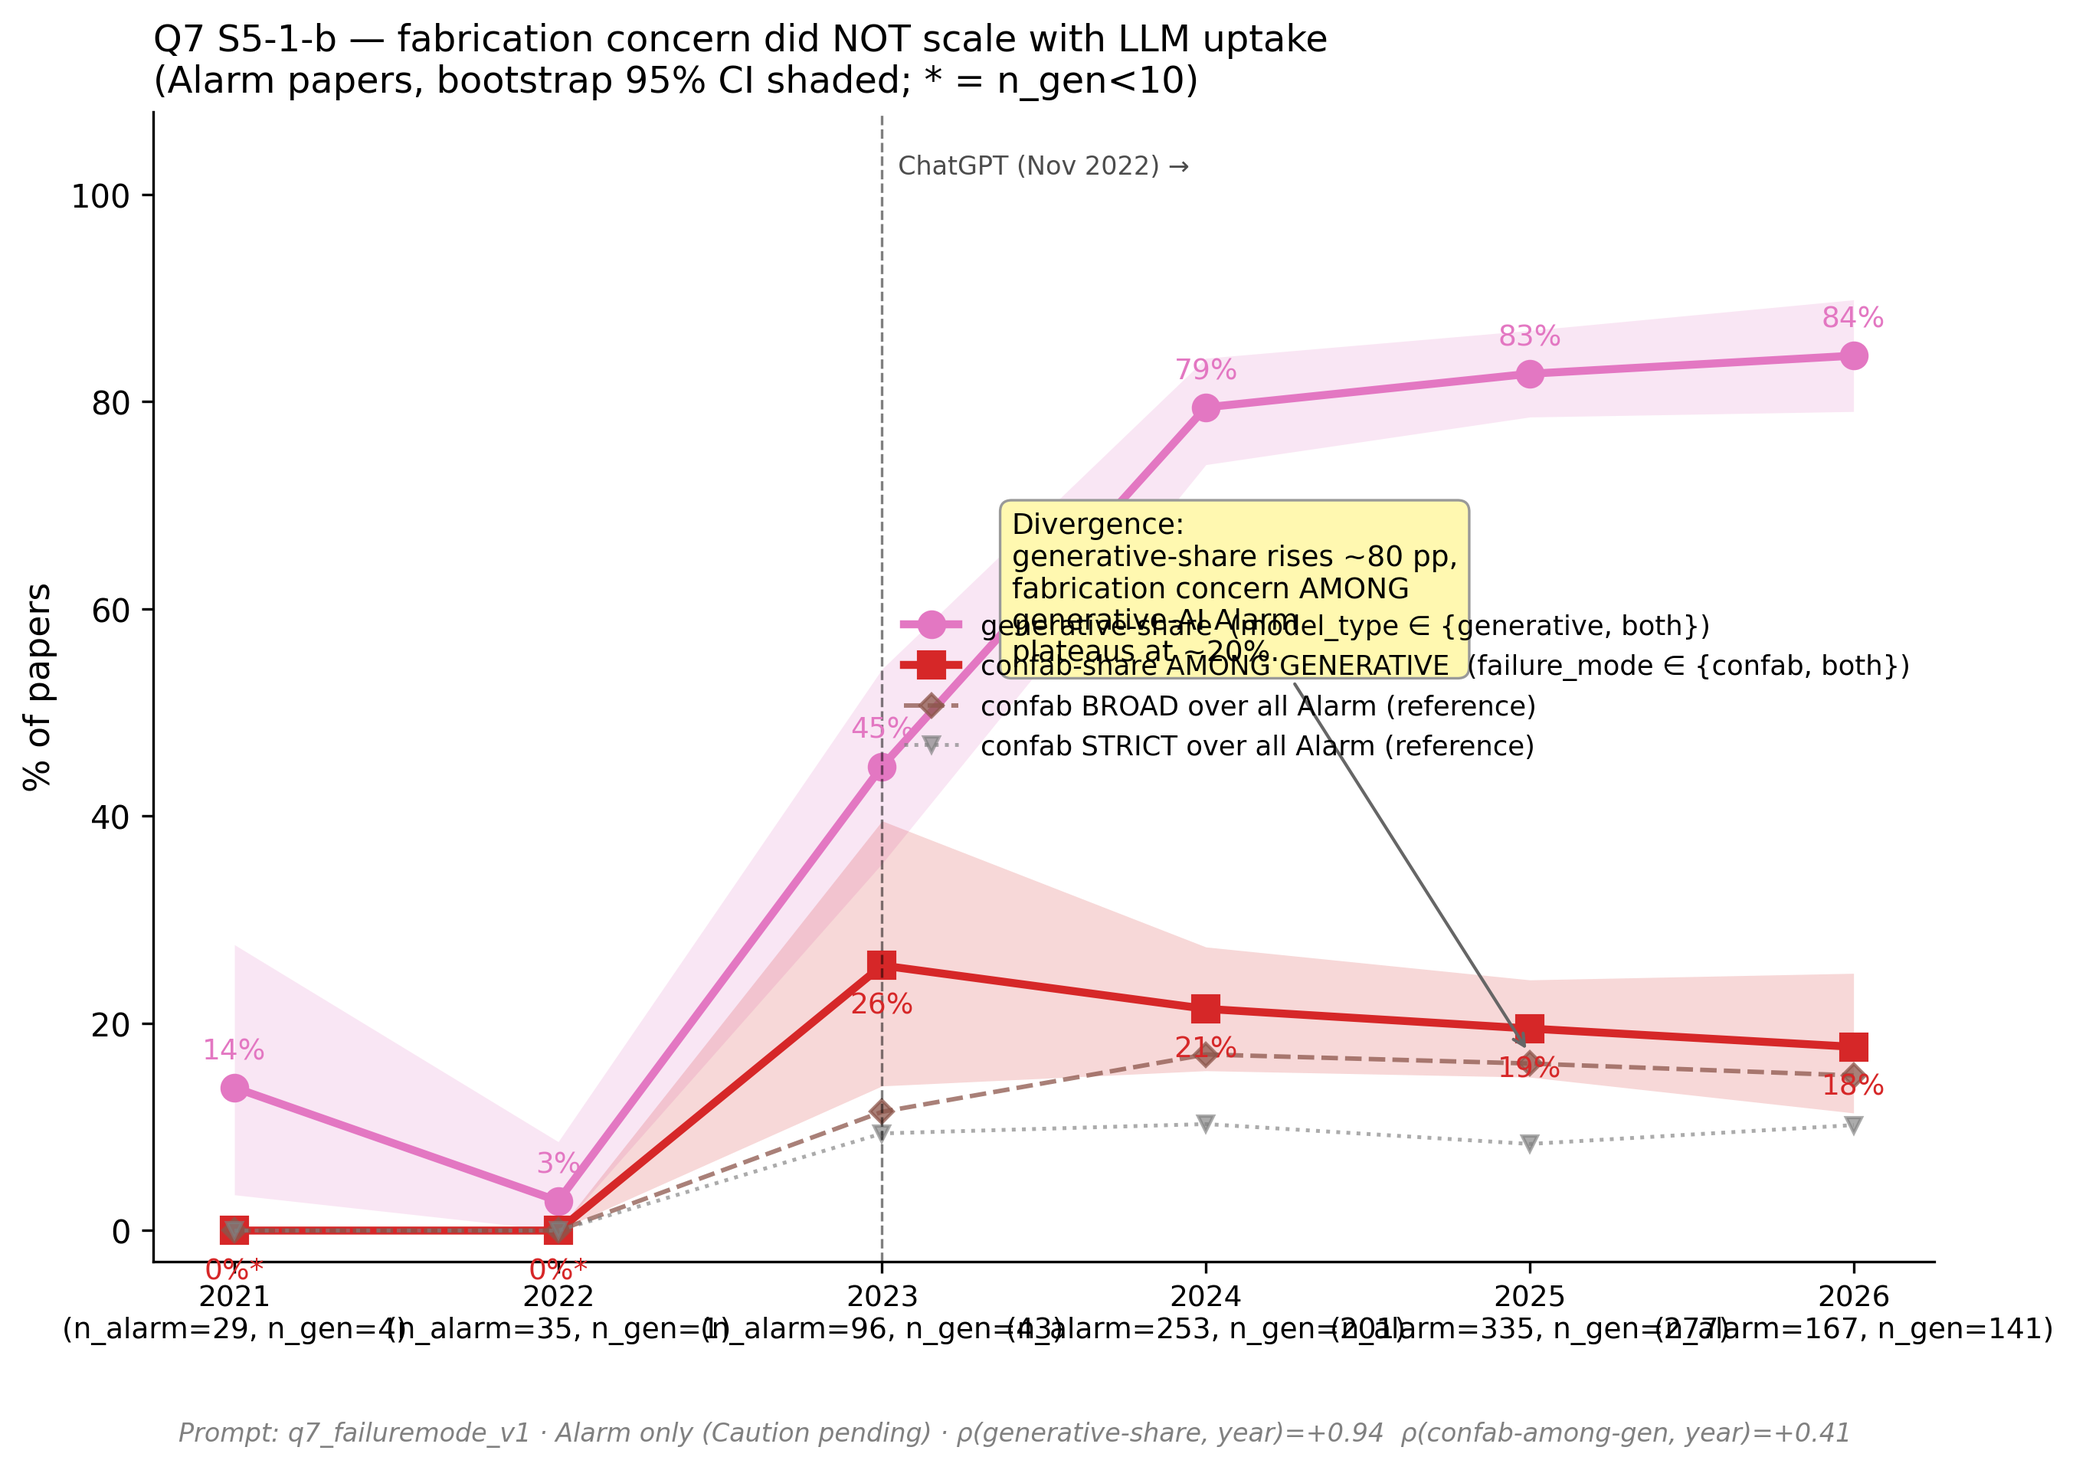
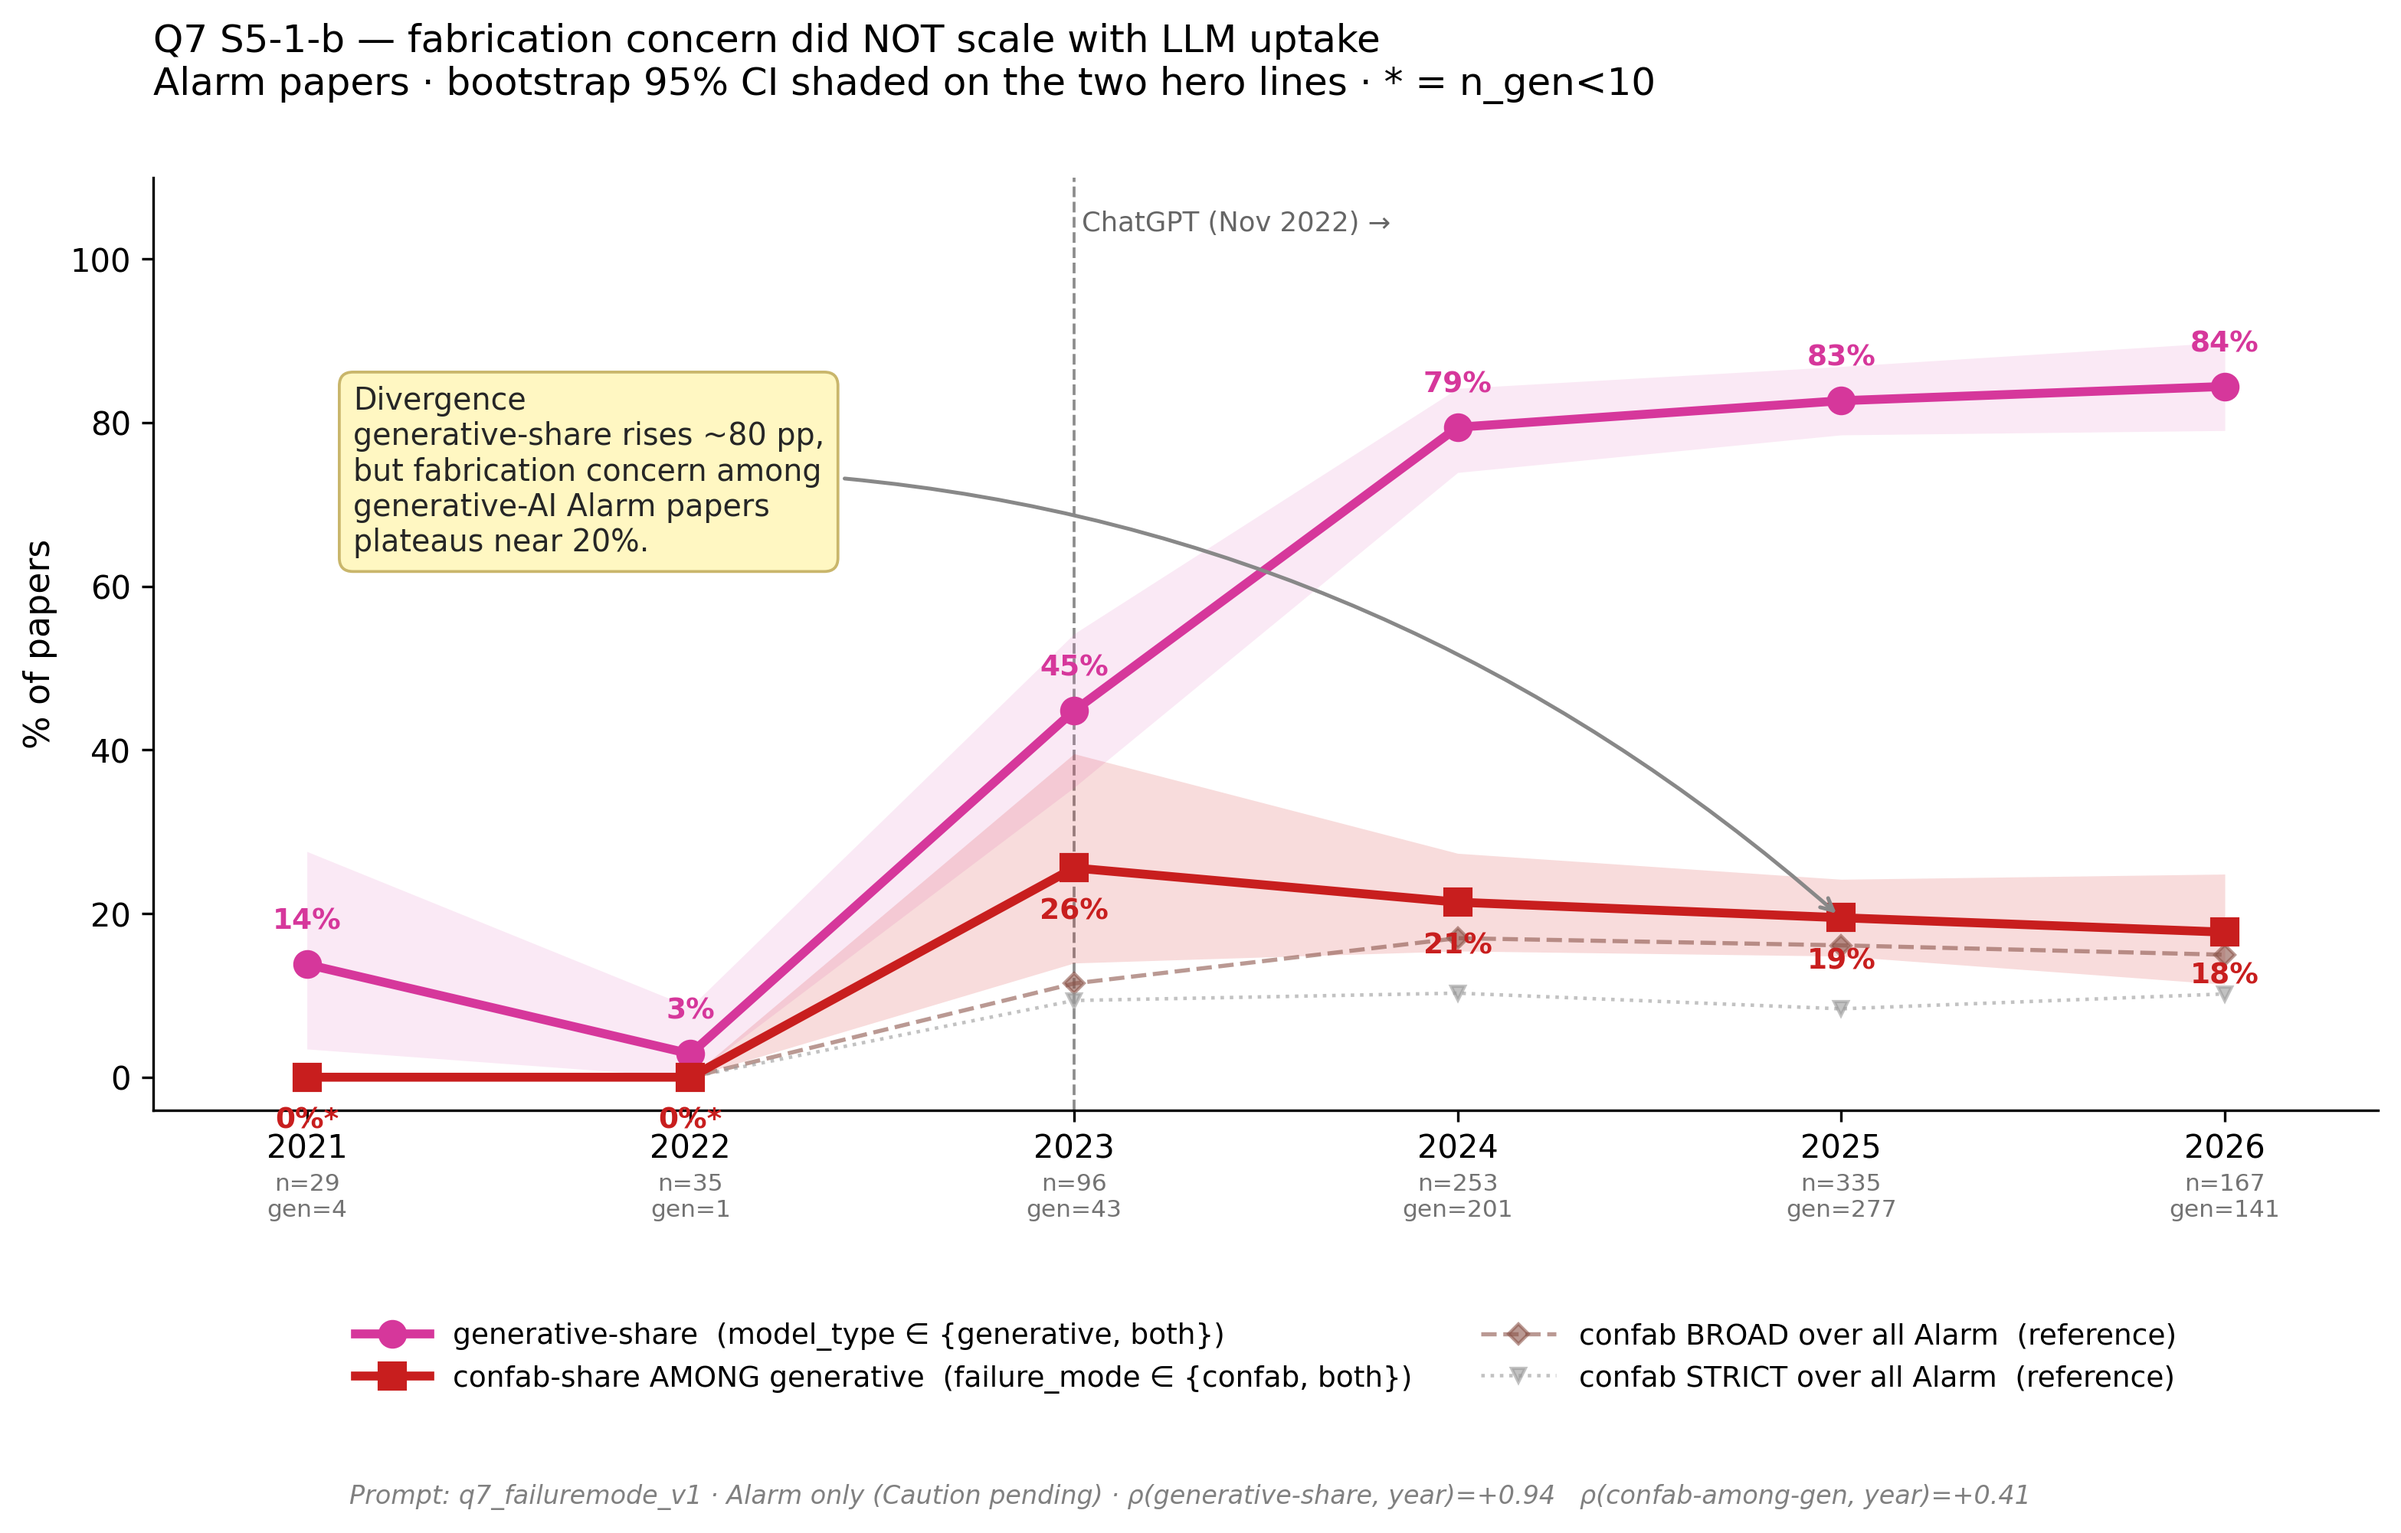
S5-1-b: declutter confab plateau figure
Overlapping legend/annotation/lines fixed. Legend moved below the axes (2 cols),
divergence callout relocated to the empty upper-left with an arrow to the
plateau, x-axis simplified to bare years with a light n=/gen= row beneath, and
the two reference lines de-emphasized so the two hero lines read clearly.
Data and stats unchanged.

diff --git a/q7_s5_1_b_plateau.py b/q7_s5_1_b_plateau.py
@@ -127,7 +127,8 @@ print(f"\nSaved → {OUT_CSV}")
 
 # ── figure ────────────────────────────────────────────────────────────────────
 os.makedirs(os.path.dirname(OUT_PNG), exist_ok=True)
-fig, ax = plt.subplots(figsize=(10, 6.5))
+fig, ax = plt.subplots(figsize=(11, 7))
+fig.subplots_adjust(left=0.09, right=0.97, top=0.84, bottom=0.26)
 x = np.arange(len(YEARS))
 
 # generative-share line with CI band
@@ -140,55 +141,70 @@ cag_h = tab["confab_among_gen_hi"].values
 cb    = tab["confab_broad"].values
 cs    = tab["confab_strict"].values
 
-ax.fill_between(x, gen_l, gen_h, color="#e377c2", alpha=0.18, linewidth=0)
-ax.plot(x, gen, marker="o", color="#e377c2", linewidth=2.5, markersize=8,
+# 2023 inflection (draw first, behind everything)
+ax.axvline(2, color="0.55", linestyle="--", linewidth=0.9, zorder=0)
+ax.text(2.02, 106, "ChatGPT (Nov 2022) →", fontsize=8.5, ha="left",
+        va="top", color="0.4")
+
+# two HERO lines (with CI bands)
+ax.fill_between(x, gen_l, gen_h, color="#e377c2", alpha=0.16, linewidth=0, zorder=1)
+ax.plot(x, gen, marker="o", color="#d6379b", linewidth=2.8, markersize=8, zorder=3,
         label="generative-share  (model_type ∈ {generative, both})")
-ax.fill_between(x, cag_l, cag_h, color="#d62728", alpha=0.18, linewidth=0)
-ax.plot(x, cag, marker="s", color="#d62728", linewidth=2.5, markersize=8,
-        label="confab-share AMONG GENERATIVE  (failure_mode ∈ {confab, both})")
-# faint reference: broad confab among all Alarm
-ax.plot(x, cb, marker="D", color="#8c564b", linewidth=1.4, markersize=5,
-        linestyle="--", alpha=0.75,
-        label="confab BROAD over all Alarm (reference)")
-ax.plot(x, cs, marker="v", color="#7f7f7f", linewidth=1.2, markersize=5,
-        linestyle=":", alpha=0.65,
-        label="confab STRICT over all Alarm (reference)")
+ax.fill_between(x, cag_l, cag_h, color="#d62728", alpha=0.16, linewidth=0, zorder=1)
+ax.plot(x, cag, marker="s", color="#c81e1e", linewidth=2.8, markersize=8, zorder=3,
+        label="confab-share AMONG generative  (failure_mode ∈ {confab, both})")
 
-# annotations on key endpoints
+# two faint REFERENCE lines (no CI band, muted, thin)
+ax.plot(x, cb, marker="D", color="#8c564b", linewidth=1.3, markersize=4.5,
+        linestyle="--", alpha=0.6, zorder=2,
+        label="confab BROAD over all Alarm  (reference)")
+ax.plot(x, cs, marker="v", color="#9a9a9a", linewidth=1.1, markersize=4.5,
+        linestyle=":", alpha=0.6, zorder=2,
+        label="confab STRICT over all Alarm  (reference)")
+
+# value labels on the two hero lines only
 for xi, v in zip(x, gen):
-    ax.annotate(f"{v:.0f}%", (xi, v), xytext=(0,9), textcoords="offset points",
-                ha="center", fontsize=9, color="#e377c2")
+    ax.annotate(f"{v:.0f}%", (xi, v), xytext=(0, 11), textcoords="offset points",
+                ha="center", fontsize=9, color="#d6379b", fontweight="bold")
 for xi, v, n in zip(x, cag, tab["n_generative"]):
-    txt = f"{v:.0f}%" if n>=10 else f"{v:.0f}%*"
-    ax.annotate(txt, (xi, v), xytext=(0,-15), textcoords="offset points",
-                ha="center", fontsize=9, color="#d62728")
+    txt = f"{v:.0f}%" if n >= 10 else f"{v:.0f}%*"
+    ax.annotate(txt, (xi, v), xytext=(0, -16), textcoords="offset points",
+                ha="center", fontsize=9, color="#c81e1e", fontweight="bold")
 
-# 2023 inflection
-ax.axvline(2, color="black", linestyle="--", linewidth=0.8, alpha=0.5)
-ax.text(2, 102, "  ChatGPT (Nov 2022) →", fontsize=8, ha="left", color="black", alpha=0.7)
-
-# divergence annotation
+# divergence annotation — parked in the empty UPPER-LEFT, arrow to the plateau
 ax.annotate(
-    "Divergence:\ngenerative-share rises ~80 pp,\nfabrication concern AMONG\ngenerative-AI Alarm\nplateaus at ~20%.",
-    xy=(4.0, 17), xytext=(2.4, 55),
-    fontsize=9, color="black",
-    bbox=dict(boxstyle="round,pad=0.4", facecolor="#fff8b0", edgecolor="#999", linewidth=0.8),
-    arrowprops=dict(arrowstyle="->", color="#666", lw=1))
+    "Divergence\ngenerative-share rises ~80 pp,\nbut fabrication concern among\ngenerative-AI Alarm papers\nplateaus near 20%.",
+    xy=(4.0, cag[4]), xytext=(0.12, 74),
+    fontsize=9.5, color="0.15", va="center", ha="left",
+    bbox=dict(boxstyle="round,pad=0.45", facecolor="#fff7c2",
+              edgecolor="#c9b66b", linewidth=0.9),
+    arrowprops=dict(arrowstyle="->", color="#888", lw=1.2,
+                    connectionstyle="arc3,rad=-0.2"))
 
+# x axis: clean year labels + a separate thin n-row beneath
 ax.set_xticks(x)
-ax.set_xticklabels([f"{y}\n(n_alarm={n}, n_gen={ng})"
-                    for y,n,ng in zip(YEARS, tab["n_alarm"], tab["n_generative"])],
-                   fontsize=9)
+ax.set_xticklabels(YEARS, fontsize=10)
+ax.set_xlim(-0.4, 5.4)
+for xi, n, ng in zip(x, tab["n_alarm"], tab["n_generative"]):
+    ax.annotate(f"n={n}\ngen={ng}", (xi, 0), xytext=(0, -30),
+                textcoords="offset points", ha="center", va="top",
+                fontsize=7.5, color="0.45", annotation_clip=False)
+
 ax.set_ylabel("% of papers", fontsize=11)
-ax.set_ylim(-3, 108)
+ax.set_ylim(-4, 110)
+ax.set_yticks([0, 20, 40, 60, 80, 100])
 ax.set_title("Q7 S5-1-b — fabrication concern did NOT scale with LLM uptake\n"
-             "(Alarm papers, bootstrap 95% CI shaded; * = n_gen<10)",
-             fontsize=11.5, loc="left")
-ax.legend(loc="center right", fontsize=8.5, frameon=False)
-for s in ("top","right"): ax.spines[s].set_visible(False)
-fig.text(0.5, -0.01,
+             "Alarm papers · bootstrap 95% CI shaded on the two hero lines · * = n_gen<10",
+             fontsize=12, loc="left", pad=26)
+# legend OUTSIDE the data, below the plot, 2 columns
+ax.legend(loc="upper center", bbox_to_anchor=(0.5, -0.20), ncol=2,
+          fontsize=9, frameon=False, columnspacing=2.4, handlelength=2.6)
+for s in ("top", "right"):
+    ax.spines[s].set_visible(False)
+
+fig.text(0.5, 0.015,
          "Prompt: q7_failuremode_v1 · Alarm only (Caution pending) · "
-         "ρ(generative-share, year)=%+.2f  ρ(confab-among-gen, year)=%+.2f"
+         "ρ(generative-share, year)=%+.2f   ρ(confab-among-gen, year)=%+.2f"
          % (rho_g, rho_c),
          ha="center", fontsize=8, style="italic", color="gray")
 fig.savefig(OUT_PNG, dpi=300, bbox_inches="tight")
